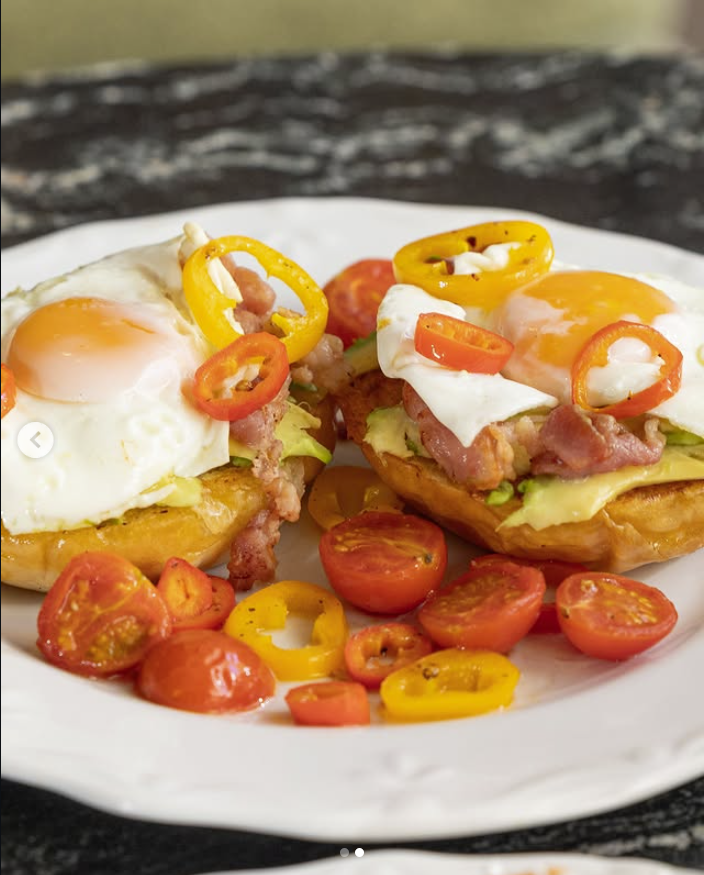
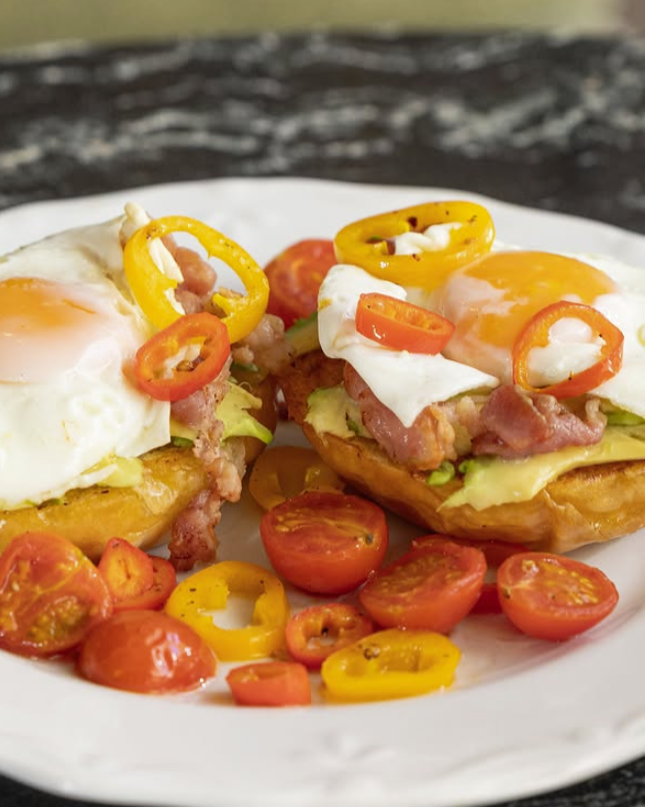
feat: refine layout and enhance item display in New section

diff --git a/src/components/sections/new.tsx b/src/components/sections/new.tsx
@@ -17,7 +17,7 @@ export default function New() {
 
 
     return (
-        <div id="destacados" className="w-full min-h-screen py-10 scroll-mt-17">
+        <div id="destacados" className="w-full py-10 scroll-mt-17">
 
             <div className="text-center mb-5">
 
@@ -43,11 +43,14 @@ export default function New() {
 
                 <div className="overflow-hidden">
                     <div className="flex items-center justify-between overflow-hidden">
-                        {ordered.map(item => (
-                            <motion.div className="w-100 h-100 py-5 px-5" key={item.id}
+                        {ordered.slice(0, 3).map((item, i) => (
+                            <motion.div className={`w-100 h-100 py-5 px-5 ${i === 0 ? "" : "hidden md:block"}`} key={item.id}
                                 layout
                                 whileHover={{ scale: 1.05 }}
-                                transition={{ duration: 0.5 }}>
+                                transition={{
+                                    layout: { duration: 0.75, ease: easeInOut },
+                                    default: { duration: 0.5, delay: 0.25, ease: easeInOut }
+                                }}>
                                 <img src={item.image} alt={item.name} draggable={false} className="w-full object-cover h-full rounded-2xl pointer-events-none" />
                             </motion.div>
                         ))}